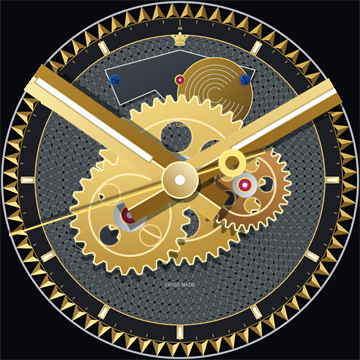
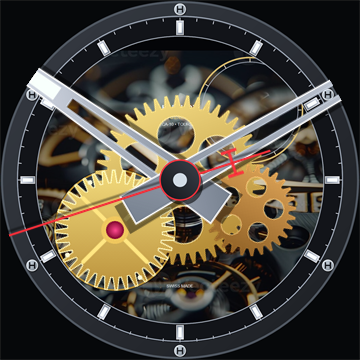
feat(hublot): Rediseño ultra elaborado estilo Hublot Big Bang Skeleton con densa arquitectura de engranajes reales, tornillos H y animación 60 fps

diff --git a/README.md b/README.md
@@ -8,10 +8,10 @@ Colección completa de 8 carátulas nativas de alto rendimiento optimizadas para
 
 ## 📸 Muestra Visual de las Carátulas (Pantalla Activa)
 
-| **Casio Royale** | **G-Shock GA-100** | **MoveToBeActive** | **Terminal Linux** | **Concentric Pixel** | **Odyssey Digital** | **Casio Classic** | **Rolex Skeleton** |
+| **Casio Royale** | **G-Shock GA-100** | **MoveToBeActive** | **Terminal Linux** | **Concentric Pixel** | **Odyssey Digital** | **Casio Classic** | **Hublot Skeleton** |
 |:---:|:---:|:---:|:---:|:---:|:---:|:---:|:---:|
-| ![Casio Royale](assets/casio_royale_preview.png) | ![G-Shock GA-100](assets/ga100_preview.png) | ![MoveToBeActive](assets/movetobeactive_preview.png) | ![Terminal](assets/terminal_preview.png) | ![Concentric](assets/concentric_preview.png) | ![Odyssey Digital](assets/odyssey_preview.png) | ![Casio Classic](assets/casio_classic_preview.png) | ![Rolex Skeleton](assets/rolex_skeleton_preview.png) |
-| *World Time* | *Militar táctico* | *Deportivo Garmin* | *Consola hacker* | *Pixel Watch* | *Wear OS Port* | *Vintage A158W* | *Luxury Tourbillon* |
+| ![Casio Royale](assets/casio_royale_preview.png) | ![G-Shock GA-100](assets/ga100_preview.png) | ![MoveToBeActive](assets/movetobeactive_preview.png) | ![Terminal](assets/terminal_preview.png) | ![Concentric](assets/concentric_preview.png) | ![Odyssey Digital](assets/odyssey_preview.png) | ![Casio Classic](assets/casio_classic_preview.png) | ![Hublot Skeleton](assets/rolex_skeleton_preview.png) |
+| *World Time* | *Militar táctico* | *Deportivo Garmin* | *Consola hacker* | *Pixel Watch* | *Wear OS Port* | *Vintage A158W* | *Big Bang Animated* |
 
 ---
 
@@ -21,9 +21,9 @@ Colección completa de 8 carátulas nativas de alto rendimiento optimizadas para
 
 Diseño ultralimpio sobre fondo negro puro AMOLED (`#000000`) con píxeles físicamente apagados para máxima autonomía y protección contra quemado de pantalla (*burn-in*):
 
-| **Casio Royale (AOD)** | **G-Shock GA-100 (AOD)** | **MoveToBeActive (AOD)** | **Terminal Linux (AOD)** | **Concentric Pixel (AOD)** | **Odyssey Digital (AOD)** | **Casio Classic (AOD)** | **Rolex Skeleton (AOD)** |
+| **Casio Royale (AOD)** | **G-Shock GA-100 (AOD)** | **MoveToBeActive (AOD)** | **Terminal Linux (AOD)** | **Concentric Pixel (AOD)** | **Odyssey Digital (AOD)** | **Casio Classic (AOD)** | **Hublot Skeleton (AOD)** |
 |:---:|:---:|:---:|:---:|:---:|:---:|:---:|:---:|
-| ![Casio Royale AOD](assets/casio_royale_aod_preview.png) | ![G-Shock GA-100 AOD](assets/ga100_aod_preview.png) | ![MoveToBeActive AOD](assets/movetobeactive_aod_preview.png) | ![Terminal AOD](assets/terminal_aod_preview.png) | ![Concentric AOD](assets/concentric_aod_preview.png) | ![Odyssey Digital AOD](assets/odyssey_aod_preview.png) | ![Casio Classic AOD](assets/casio_classic_aod_preview.png) | ![Rolex Skeleton AOD](assets/rolex_skeleton_aod_preview.png) |
+| ![Casio Royale AOD](assets/casio_royale_aod_preview.png) | ![G-Shock GA-100 AOD](assets/ga100_aod_preview.png) | ![MoveToBeActive AOD](assets/movetobeactive_aod_preview.png) | ![Terminal AOD](assets/terminal_aod_preview.png) | ![Concentric AOD](assets/concentric_aod_preview.png) | ![Odyssey Digital AOD](assets/odyssey_aod_preview.png) | ![Casio Classic AOD](assets/casio_classic_aod_preview.png) | ![Hublot Skeleton AOD](assets/rolex_skeleton_aod_preview.png) |
 | *Marco LCD y hora* | *Lume en manecillas* | *Manecillas flotantes* | *[time] centrado* | *Hora y minutos* | *OLED minimalista* | *Marco LCD y hora* | *Manecillas exclusivas* |
 
 ---
@@ -39,7 +39,7 @@ Diseño ultralimpio sobre fondo negro puro AMOLED (`#000000`) con píxeles físi
 | **Concentric** | `Concentric Pixel` | `com.samsung.watchface-noblesse-u6` | Google Pixel Watch a 60 fps |
 | **Odyssey Digital** | `Odyssey Digital` | `com.samsung.watchface-noblesse-a4` | Wear OS Liberty Port / Neon Yellow Card |
 | **Casio Classic A158W** | `Casio Classic` | `com.samsung.watchface-noblesse-a5` | Digital Vintage Retro / Water Resist |
-| **Rolex Skeleton Tourbillon** | `Rolex Skeleton` | `com.samsung.watchface-noblesse-a1` | Alta Relojería Mecánica / Engranajes Móviles |
+| **Hublot Big Bang Skeleton** | `Hublot Skeleton` | `com.samsung.watchface-noblesse-a1` | Alta Relojería Mecánica / Engranajes Animados |
 
 ---
 
@@ -92,19 +92,19 @@ Diseño ultralimpio sobre fondo negro puro AMOLED (`#000000`) con píxeles físi
 
 ---
 
-### 8. Rolex Skeleton Tourbillon (Mecánica Viva en Tiempo Real)
+### 8. Hublot Big Bang Skeleton (Mecánica Viva en Tiempo Real)
 - **Directorio:** [`tizen-native-rolex-skeleton/`](tizen-native-rolex-skeleton/)
 - **Slot Nativo:** `com.samsung.watchface-noblesse-a1`
-- **Nombre en Reloj:** `Rolex Skeleton`
+- **Nombre en Reloj:** `Hublot Skeleton`
 - **Características:**
-  - **Bisel Acanalado de Oro 18K (Fluted Bezel):** 72 facetas talladas con reflejos dorados y sombras tridimensionales en alta definición.
-  - **Corona Rolex y Rehaut:** Icónica corona de 5 puntas a las 12:00, anillo perimetral con minutería fina e índices horarios facetados de oro con material luminiscente Chromalight blanco puro.
-  - **Maquinaria Esqueletizada Viva (3 Engranajes Móviles Reales):**
-    - **Rueda de Balance / Tourbillon (7:00):** Volante de inercia con 4 brazos y rubí central en chatón de oro que gira de forma continua a 60 fps sincronizado con el escape (`sweep60s`).
-    - **Rueda Intermedia de Segundos (4:30):** Engranaje de bronce esqueletizado que contra-rota continuamente sincronizado con los segundos mecánicos.
-    - **Gran Rueda Central (Eje 180, 180):** Engranaje dorado de minutos que rota suavemente con el tren de rodaje de la hora.
-  - **Manecillas Rolex de Alta Gama:** Agujas facetadas en oro con hendiduras de Chromalight blanco, segundero de barrido continuo ultrafino a 60 fps y pivote central pulido a espejo.
-  - **Modo AOD (Always-On Display):** Cumplimiento estricto de ahorro de energía AMOLED; el fondo y los engranajes se apagan por completo (`#000000`), mostrando **exclusivamente las manecillas con lumen tenue** en la oscuridad absoluta para una autonomía prolongada.
+  - **Bisel Hublot Big Bang con 6 Tornillos en H:** Bisel de titanio satinado con los 6 icónicos tornillos H a las 12, 2, 4, 6, 8 y 10 horas.
+  - **Maquinaria Ultra Elaborada:** Tapiz mecánico de alta densidad con decenas de engranajes reales, puentes satinados de titanio con biselado espejo, barrilete con muelle real en espiral visible, sub-esfera calada a las 2:30 y rubíes en chatones de oro.
+  - **3 Engranajes Móviles Reales en Tiempo Real:**
+    - **Rueda de Balance / Tourbillon (7:30):** Volante de inercia con 4 brazos calados, contrapesos perimetrales y rubí central que gira suavemente a 60 fps sincronizado con el escape (`sweep60s`).
+    - **Rueda Intermedia de Segundos (4:30):** Engranaje de bronce esqueletizado de 28 dientes que contra-rota continuamente sincronizado con los segundos mecánicos.
+    - **Gran Rueda Central (Eje 180, 180):** Engranaje de 48 dientes de oro fino que rota suavemente con el tren de rodaje de los minutos.
+  - **Manecillas Esqueletizadas Hublot:** Agujas caladas tipo espada en titanio cepillado con puntas de Super-LumiNova, segundero rojo deportivo con contrapeso de la "H" de Hublot a 60 fps y pivote central de cerámica negra.
+  - **Modo AOD (Always-On Display):** Fondo negro puro AMOLED (`#000000`), mostrando **exclusivamente las manecillas con lumen tenue** en la oscuridad absoluta para máxima autonomía.
 
 ---
 
@@ -120,7 +120,7 @@ O en Linux / macOS:
 ./instalar_todas_las_caratulas.sh 192.168.100.77:26101
 ```
 
-### Opción B: Instalar Rolex Skeleton individualmente
+### Opción B: Instalar Hublot Skeleton individualmente
 ```powershell
 .\install_rolex_skeleton.ps1 -DeviceIp "192.168.100.77:26101"
 ```
